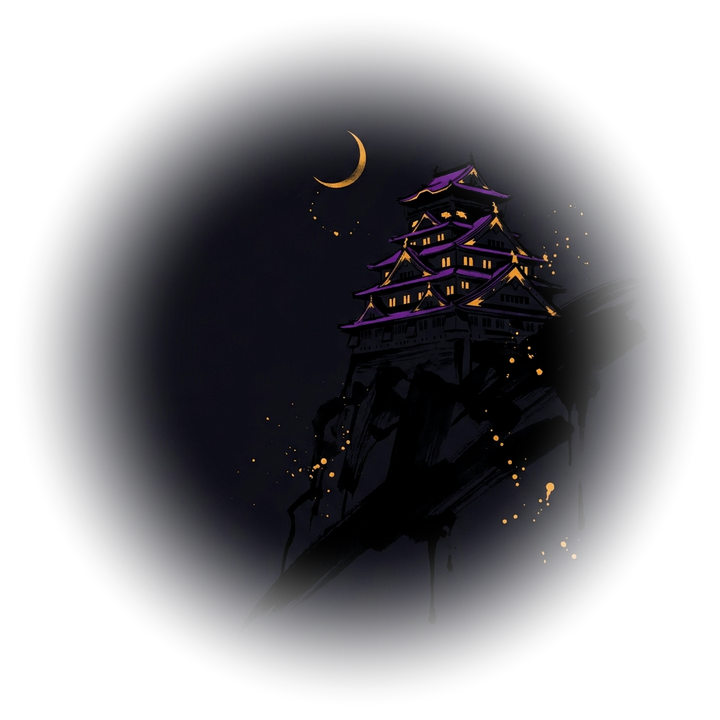
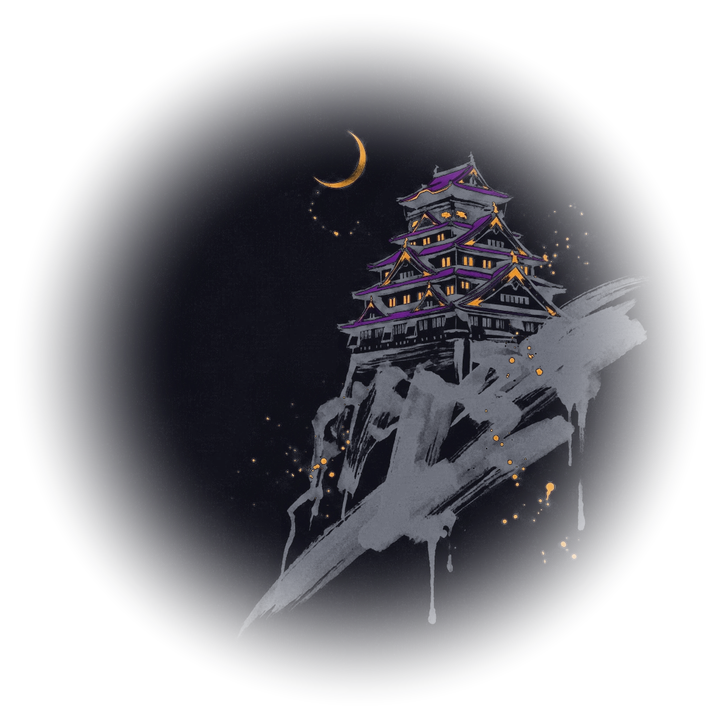
Ember verdict, dragon breath behind the chart, bars that warm toward the line, lookup example at rest
Ben's vetoes on the ember-verdict mocks: the inflationary pill now speaks ember gold instead of
crimson (inflationary is the ordinary state, crimson stays the alarm colour); a sumi-e dragon
breathing jade-to-gold flame sits behind the whole chart block at 16% (screen blend, the plot's
own dark ground dims it under the bars); below-the-line bars warm from --ember-orange to
--ember-gold as a day approaches the 86,400 TINC emission and jade brightens above it, with a
legend swatch and "% of the day's emission" in the tooltip.

Lookup at rest keeps its two columns with a faded 例 Example answer (hidden on phones). Phones get
the four stat cards as a 2 x 2 grid so the verdict sits within the first screens. Shōgun and
Daimyō tier art re-inked in silver like Ryūjin so their strokes read on the cards and share cards.

Claude-Session: https://claude.ai/code/session_01AQnyZ9cyG8LmAZR4yoj7tu

diff --git a/src/components/BurnChart.tsx b/src/components/BurnChart.tsx
@@ -32,7 +32,22 @@ interface Props {
   burnData: BurnData;
 }
 
+const THRESHOLD = 86400; // 1 TINC/second = 86,400 TINC/day
+const lerp = (a: number, b: number, t: number) => Math.round(a + (b - a) * t);
 
+/**
+ * Bars warm toward the line: a small burn is a dim ember (--ember-orange), a day just short of
+ * the emission is full ember gold, a day above it is dragon jade, brightening toward
+ * --dragon-jade-bright as it doubles the emission. Hover shows the same hue at full strength.
+ */
+function barColor(value: number, hover = false): string {
+  if (value >= THRESHOLD) {
+    const e = Math.min((value - THRESHOLD) / THRESHOLD, 1);
+    return `rgba(0, ${lerp(212, 255, e)}, ${lerp(170, 204, e)}, ${hover ? 1 : 0.85 + e * 0.1})`;
+  }
+  const t = Math.max(0, Math.min(value / THRESHOLD, 1));
+  return `rgba(${lerp(255, 245, t)}, ${lerp(109, 166, t)}, ${lerp(58, 35, t)}, ${hover ? 1 : 0.5 + t * 0.45})`;
+}
 
 const BurnChart: React.FC<Props> = ({ burnData }) => {
   const labels = burnData.dailyBurns.map(d => {
@@ -42,7 +57,7 @@ const BurnChart: React.FC<Props> = ({ burnData }) => {
     return date.toLocaleDateString('en-US', { month: 'short', day: 'numeric', timeZone: 'UTC' });
   });
 
-  const deflationaryThreshold = 86400; // Fixed 1 TINC/second = 86,400 TINC/day
+  const deflationaryThreshold = THRESHOLD;
 
   const data = {
     labels,
@@ -50,28 +65,12 @@ const BurnChart: React.FC<Props> = ({ burnData }) => {
       {
         label: 'TINC Burned',
         data: burnData.dailyBurns.map(d => d.amountTinc),
-        backgroundColor: (context: any) => {
-          const value = context.parsed?.y || 0;
-          const isDeflationary = value >= deflationaryThreshold;
-          if (isDeflationary) {
-            // Dragon jade for deflationary
-            return 'rgba(0, 212, 170, 0.85)';
-          }
-          // Ember orange gradient for below threshold
-          const maxValue = Math.max(...burnData.dailyBurns.map(d => d.amountTinc));
-          const intensity = value / maxValue;
-          return `rgba(245, 166, 35, ${0.4 + intensity * 0.45})`;
-        },
+        backgroundColor: (context: any) => barColor(context.parsed?.y || 0),
         borderColor: 'transparent',
         borderWidth: 0,
         borderRadius: 6,
         borderSkipped: false,
-        hoverBackgroundColor: (context: any) => {
-          const value = context.parsed?.y || 0;
-          const isDeflationary = value >= deflationaryThreshold;
-          // Brighter on hover
-          return isDeflationary ? 'rgba(0, 255, 204, 0.95)' : 'rgba(255, 109, 58, 0.9)';
-        },
+        hoverBackgroundColor: (context: any) => barColor(context.parsed?.y || 0, true),
         type: 'bar' as const,
       },
     ],
@@ -155,6 +154,7 @@ const BurnChart: React.FC<Props> = ({ burnData }) => {
             } else {
               lines.push(`Shortfall: ${formatAmount(Math.abs(difference))}`);
             }
+            lines.push(`${Math.round((amount / deflationaryThreshold) * 100)}% of the day's emission`);
             
             return lines;
           },
@@ -247,6 +247,10 @@ const BurnChart: React.FC<Props> = ({ burnData }) => {
         <div className="legend-item">
           <div className="legend-line deflationary"></div>
           <span>Deflationary Threshold: 86,400 TINC/Day</span>
+        </div>
+        <div className="legend-item">
+          <div className="legend-ramp"></div>
+          <span>Bars warm from ember to gold as a day nears the line, jade above it</span>
         </div>
       </div>
     </div>

diff --git a/src/App.css b/src/App.css
@@ -2275,3 +2275,93 @@ footer a:hover {
     transition-duration: 0.01ms !important;
   }
 }
+
+/* ─────────────────────────────────────────────────────────────────────────────
+   2026-09-02 pass three (Ben's vetoes on the ember-verdict mocks): the verdict pill in ember
+   gold, dragon breath behind the whole chart block, bars that warm toward the line, the lookup
+   at rest with an example answer, and a 2 × 2 stat grid on phones. Tokens only, no new colours.
+   ───────────────────────────────────────────────────────────────────────────── */
+
+/* Inflationary is the ordinary state, not an alarm: the pill speaks ember gold like the bars */
+.status-indicator.inflationary {
+  background: rgba(245, 166, 35, 0.08);
+  border-color: rgba(245, 166, 35, 0.28);
+  color: var(--ember-gold);
+}
+
+/* 龍炎 Dragon breath behind the chart block (Ben chose the full-block version). The plot's own
+   dark ground dims it under the bars; the header carries it at ghost strength. */
+.chart-art {
+  position: absolute;
+  inset: 0;
+  width: 100%;
+  height: 100%;
+  object-fit: cover;
+  object-position: right top;
+  opacity: 0.16;
+  mix-blend-mode: screen;
+  pointer-events: none;
+  z-index: 0;
+}
+.chart-section > *:not(.chart-art) {
+  position: relative;
+  z-index: 1;
+}
+
+/* Legend swatch for the bar ramp: ember → gold below the line, jade above */
+.legend-ramp {
+  width: 44px;
+  height: 8px;
+  border-radius: 4px;
+  background: linear-gradient(90deg, var(--ember-orange) 0%, var(--ember-gold) 55%, var(--dragon-jade) 100%);
+}
+.chart-legend {
+  flex-wrap: wrap;
+  row-gap: 0.5rem;
+}
+
+/* Lookup at rest: the panel keeps its width, a faded example shows what an answer looks like */
+.lookup-row.at-rest {
+  grid-template-columns: 1.2fr 1fr;
+}
+.lookup-example {
+  opacity: 0.5;
+  pointer-events: none;
+}
+.lookup-example .lookup-sub {
+  margin-bottom: 0.5rem;
+}
+@media (max-width: 768px) {
+  .lookup-row.at-rest {
+    grid-template-columns: 1fr;
+  }
+  .lookup-example {
+    display: none;
+  }
+}
+
+/* Phones: the four stat cards as a 2 × 2 grid, so the verdict sits within the first screens */
+@media (max-width: 480px) {
+  .stats-grid {
+    grid-template-columns: 1fr 1fr;
+    gap: 0.75rem;
+  }
+  .stat-card {
+    padding: 1rem;
+  }
+  .stat-header {
+    margin-bottom: 0.6rem;
+  }
+  .stat-icon {
+    display: none;
+  }
+  .stat-value {
+    font-size: 1.5rem;
+  }
+  .stat-description {
+    display: none;
+  }
+  .chart-art {
+    opacity: 0.12;
+  }
+}

diff --git a/src/components/HolderLookup.tsx b/src/components/HolderLookup.tsx
@@ -4,9 +4,24 @@ import React, { useState } from 'react';
 import RankCard from './RankCard';
 import CopyLinkButton from './CopyLinkButton';
 import ShareIntents from './ShareIntents';
-import { normalizeAddress, rankLookup, type HoldersFile, type RankResult } from '@/lib/ranks';
+import { normalizeAddress, rankLookup, RANK_TIERS, type HoldersFile, type RankResult } from '@/lib/ranks';
 import { fmtUtcClock } from '@/lib/format';
 import { rankUrl } from '@/lib/share';
+
+/** What an answer looks like, shown faded beside the empty form and labelled 例 Example. */
+const EXAMPLE: RankResult = {
+  address: '0x0000000000000000000000000000000000000000',
+  balance: 27803,
+  pct: 0.0993,
+  rank: 50,
+  count: 957,
+  totalSupply: 28000000,
+  updatedAt: '',
+  tier: RANK_TIERS.find((t) => t.key === 'samurai') ?? null,
+  next: RANK_TIERS.find((t) => t.key === 'daimyo') ?? null,
+  shortfall: 153,
+  progress: 0.98,
+};
 
 type LookupState =
   | { kind: 'idle' }
@@ -52,7 +67,7 @@ export default function HolderLookup() {
   if (found && snapshot) note = `Snapshot ${fmtUtcClock(snapshot)} · excludes LP positions · public on-chain balances`;
 
   return (
-    <div className={`lookup-row${found ? ' has-result' : ''}`} id="find-your-rank">
+    <div className={`lookup-row${found ? ' has-result' : ' at-rest'}`} id="find-your-rank">
       <div className="rank-card lookup-panel" style={{ '--rank-color': '#00D4AA' } as React.CSSProperties}>
         <div className="rank-corner"></div>
         <div className="lookup-title">
@@ -78,7 +93,7 @@ export default function HolderLookup() {
         <p className={`lookup-note${state.kind === 'error' ? ' is-error' : ''}`}>{note}</p>
       </div>
 
-      {found && (
+      {found ? (
         <div className="lookup-result">
           <RankCard r={found} />
           <div className="lookup-share">
@@ -87,6 +102,18 @@ export default function HolderLookup() {
             <a className="btn btn-ghost" href={`/rank/${found.address}`}>
               Open card
             </a>
+          </div>
+        </div>
+      ) : (
+        <div className="lookup-result lookup-example" aria-hidden="true">
+          <div className="lookup-sub">
+            <span className="kanji-small">例</span> Example answer
+          </div>
+          <RankCard r={EXAMPLE} />
+          <div className="lookup-share">
+            <span className="btn btn-ghost">Copy share link</span>
+            <span className="btn btn-ghost">Share to Telegram</span>
+            <span className="btn btn-ghost">Post to X</span>
           </div>
         </div>
       )}

diff --git a/src/app/dashboard-client.tsx b/src/app/dashboard-client.tsx
@@ -237,6 +237,9 @@ export default function DashboardClient({ initialData }: Props) {
           <>
             <StatsCards burnData={burnData} />
             <div className="chart-section">
+              {/* 龍炎 dragon breath behind the block; the plot's dark ground dims it under the bars */}
+              {/* eslint-disable-next-line @next/next/no-img-element */}
+              <img className="chart-art" src="/chart/dragon-breath.webp" alt="" decoding="sync" />
               <ChartHeader burnData={burnData} />
               <BurnChart burnData={burnData} />
             </div>
